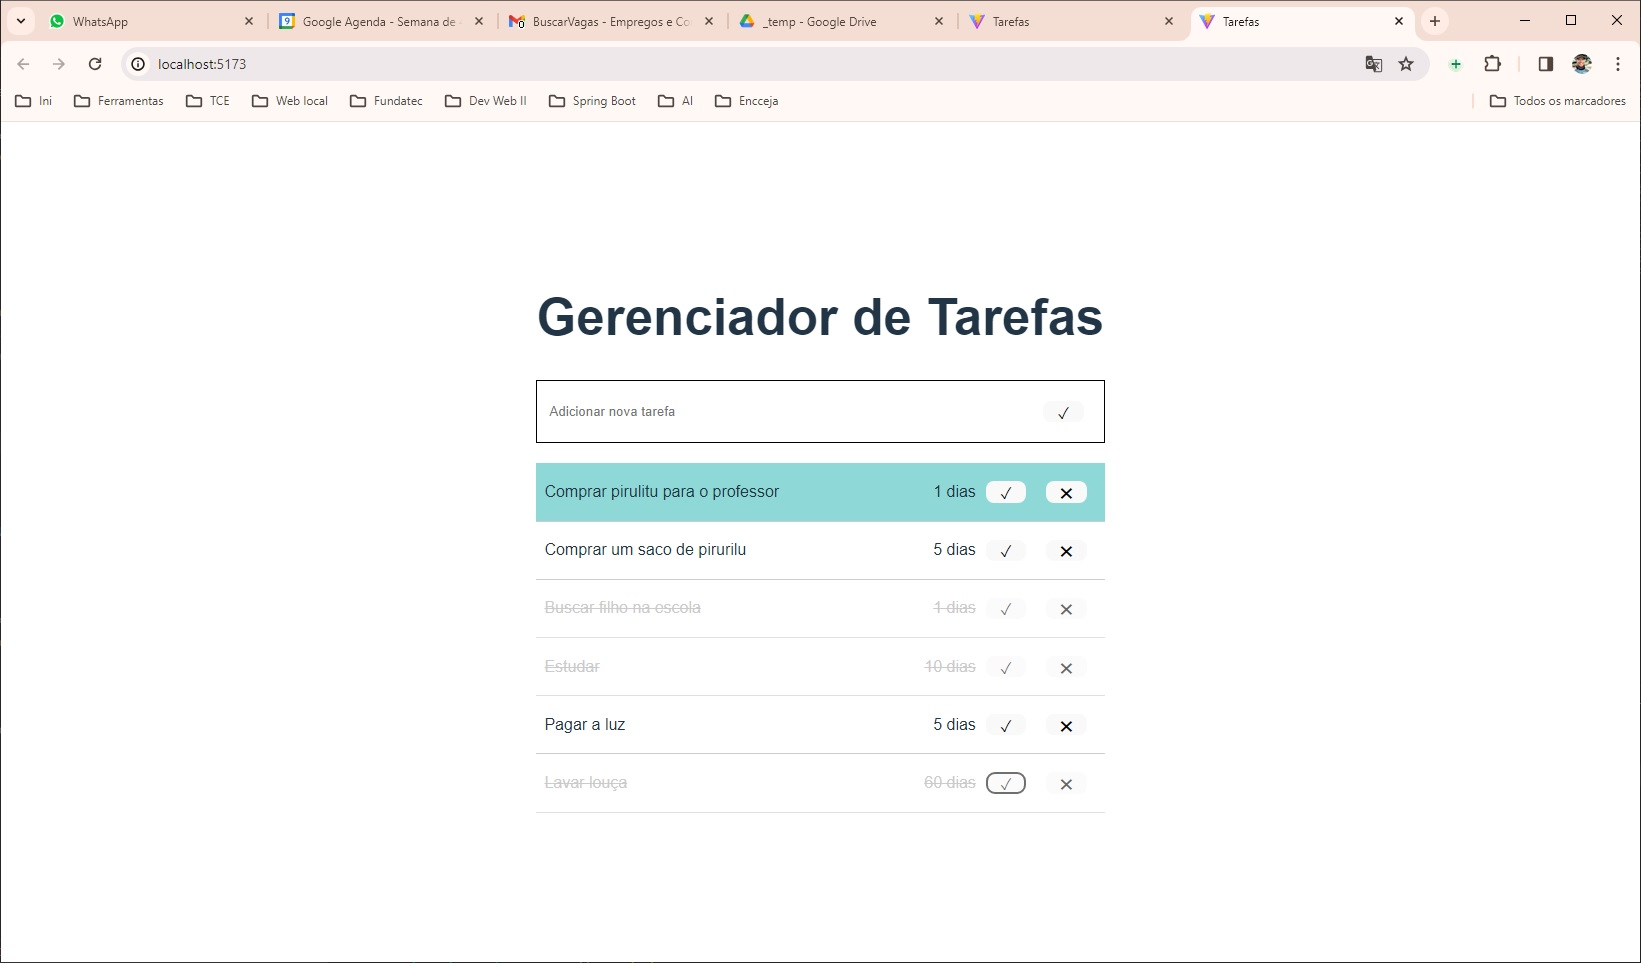
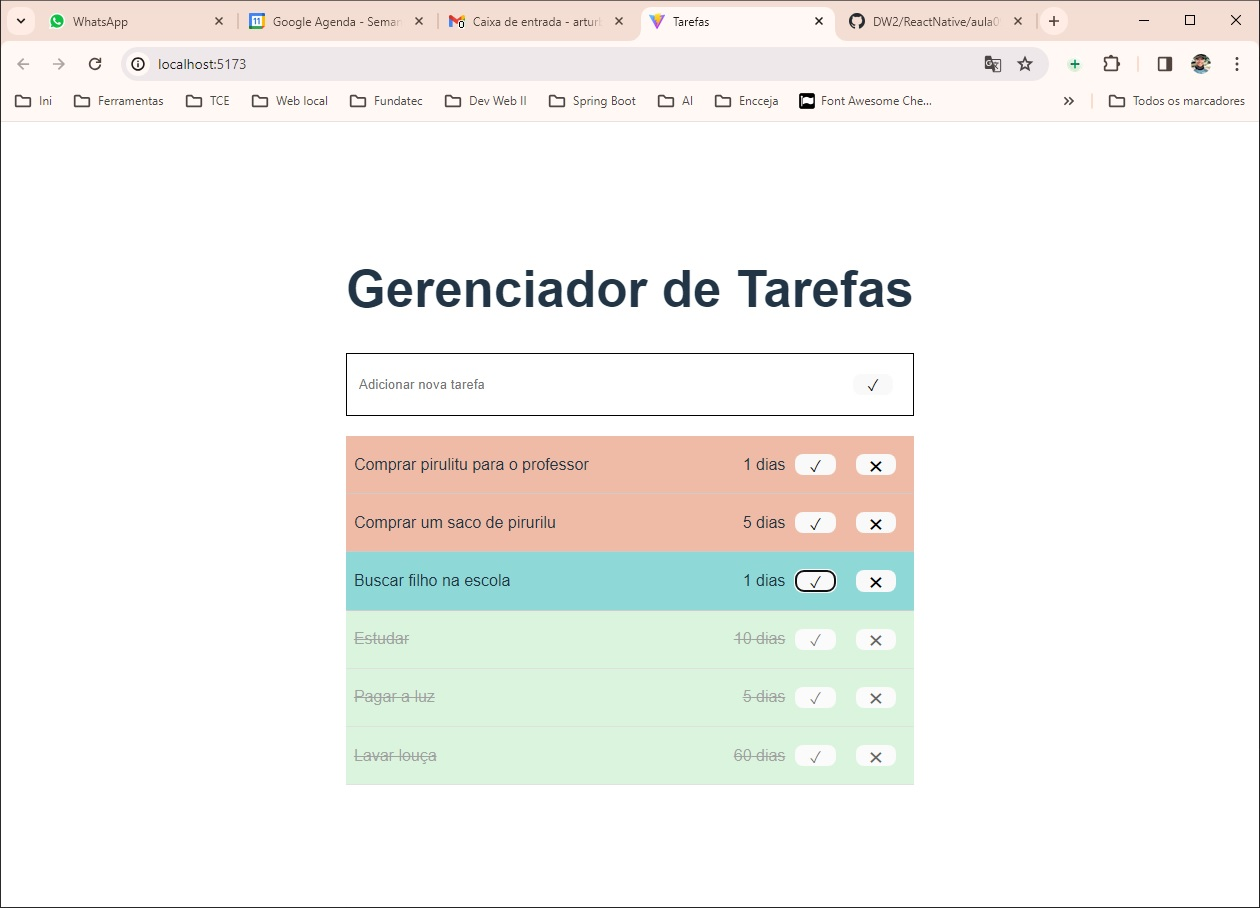
Mais uma mexidinha no CSS e print da tela

diff --git a/ReactNative/aula09-tarefas/src/App.jsx b/ReactNative/aula09-tarefas/src/App.jsx
@@ -16,7 +16,7 @@ const tarefas = [
   },
   {
     titulo: 'Buscar filho na escola',
-    concluida: false,
+    concluida: true,
     dias: 1,
   },
   {
@@ -26,12 +26,12 @@ const tarefas = [
   },
   {
     titulo: 'Pagar a luz',
-    concluida: false,
+    concluida: true,
     dias: 5,
   },
   {
     titulo: 'Lavar louça',
-    concluida: false,
+    concluida: true,
     dias: 60,
   }
 ];
